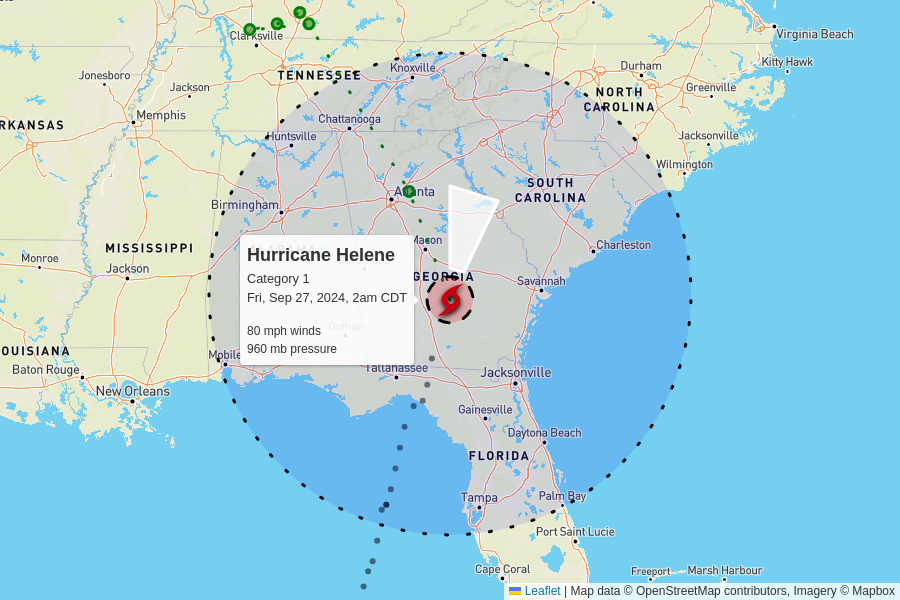
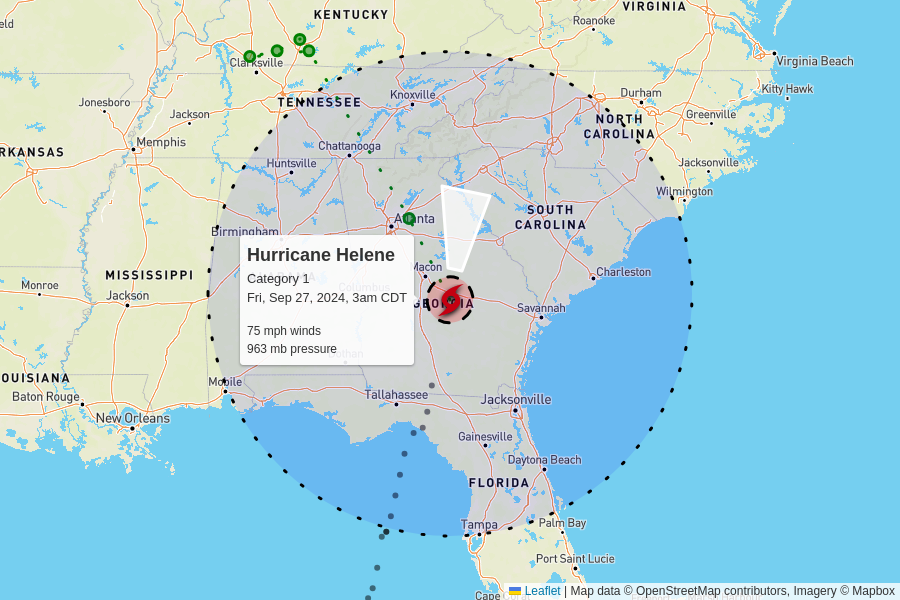
automatic update

diff --git a/docs/index.html b/docs/index.html
@@ -104,7 +104,7 @@
         <td colspan="6" class="storm category-1" >
           <h2>
             Hurricane Helene - Category 1
-            <p class="updated">last updated <span data-time>2024-09-27T07:00:00.000Z</span></p>
+            <p class="updated">last updated <span data-time>2024-09-27T08:00:00.000Z</span></p>
           </h2>
         </td>
       </tr>
@@ -119,12 +119,12 @@
       </tr>
       <tr>
         <td class="spacer"></td>
-        <td>80 mph<br>-10 mph since last update</td>
-        <td>960 mb<br>+5 mb since last update</td>
+        <td>75 mph<br>-5 mph since last update</td>
+        <td>963 mb<br>+3 mb since last update</td>
         <td>
-          30 mph to the north-northeast
+          30 mph to the north
           <br/>
-          <span style="display: inline-block; font-size: 1.5em; transform: rotate(15deg);">↑</span>
+          <span style="display: inline-block; font-size: 1.5em; transform: rotate(10deg);">↑</span>
         </td>
         <td><a href="https://raw.githubusercontent.com/mgwalker/atlantic-hurricanes/main/data/csv/AL092024.csv">AL092024.csv</a></td>
         <td><a href="https://www.nhc.noaa.gov/archive/2024/HELENE.shtml?">NHC advisories</a></td>
